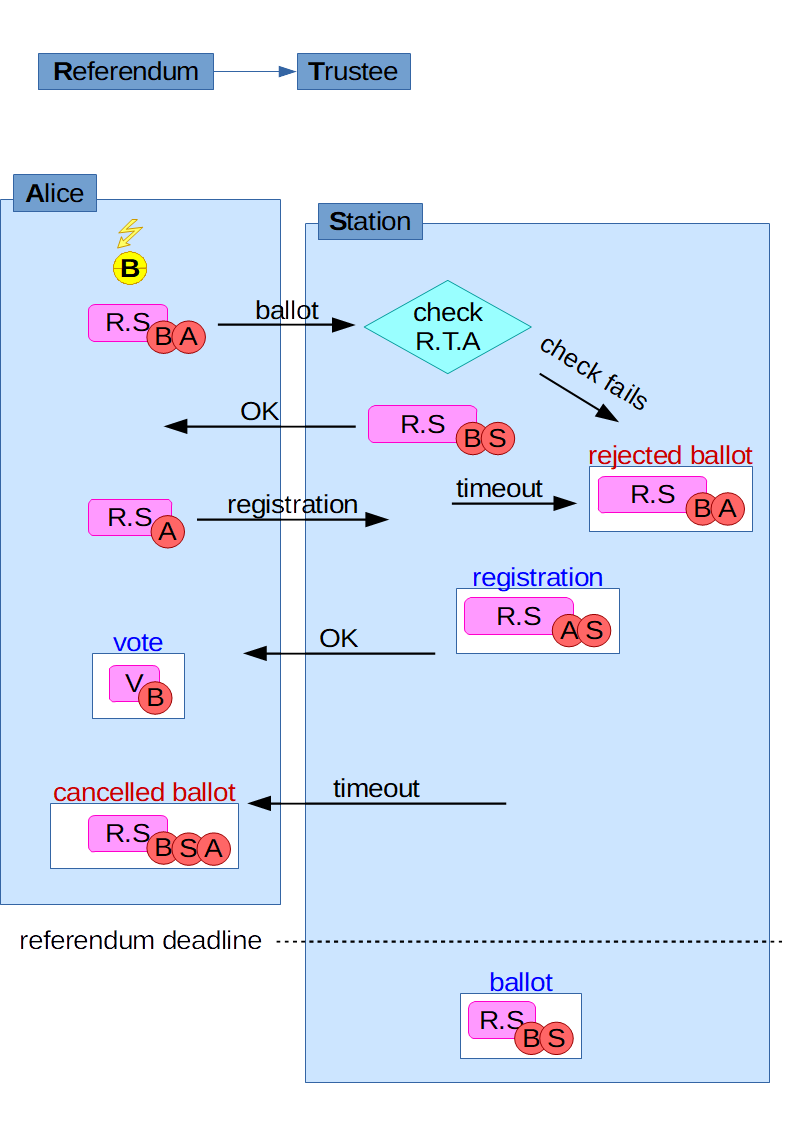
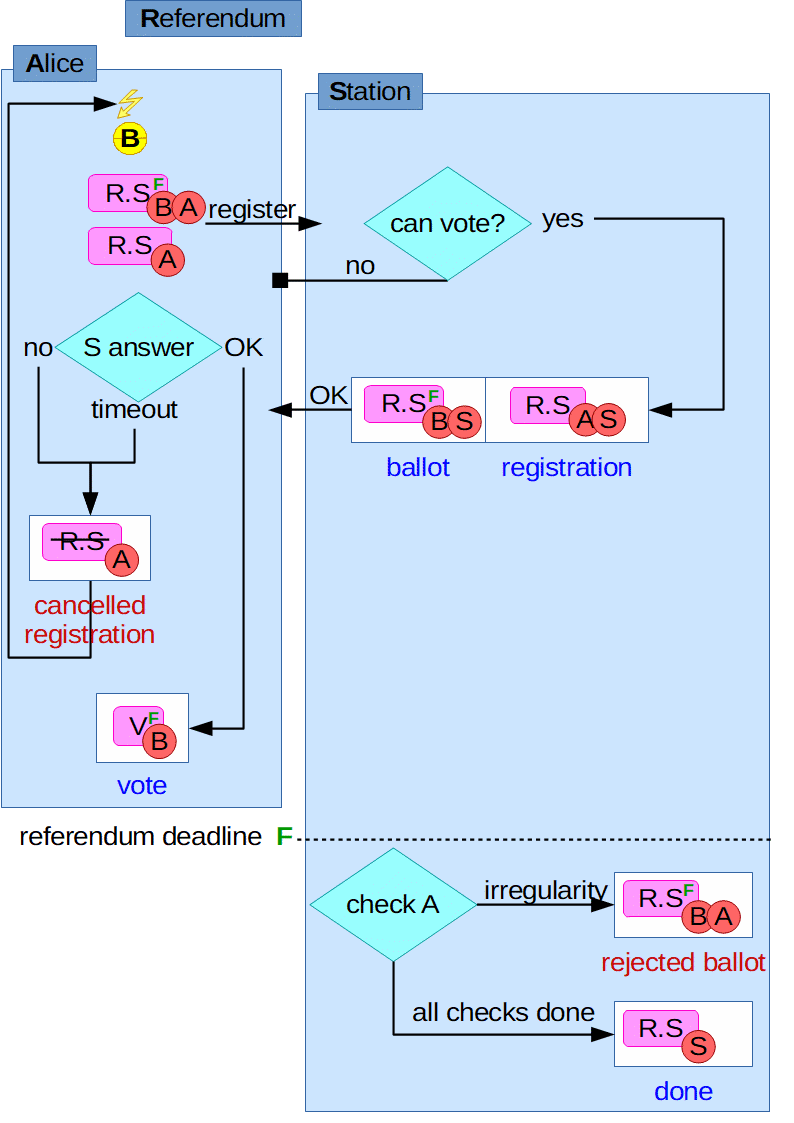
updated

diff --git a/voting.md b/voting.md
@@ -1,0 +1,102 @@
+# Features and Limitations
+
+A perfect voting system doesn't exists.
+The system we propose has a number of limitations.
+However, such limitations should not affect the democratic process.
+
+# Voting
+
+This section describe the full voting process.
+
+## 1 Citizens
+
+### 1.1 Registration
+
+The citizen `A` choose a referendum `R` and a polling station `S` she will use for that vote.
+`R` includes a reference to a trustee `T` which represents the authority for `R`.
+`A` creates a new pair of cryptographic keys `B` for her ballot.
+`A` creates a ballot structure containing the public keys of `R`, `S`, `B` and `A` and signs it with her `B` key and `A` key: `RSba`.
+The ballot also contains a publication date (*published*) set to the *deadline* of `R`.
+That means, it won't be made public before this date.
+`A` creates a registration structure, that is containing the public keys of `R`, `S` and `A` and sign it with her `A` key: `RSa`.
+The publication date (*published*) of the registration is set to the current date, which means it can be published now.
+`A` sends `RSba + RSa` to `S` and waits for an answer.
+If `S` takes too long to answer or answers anything else than `RSbs + RSas`, proceed to **1.2 Registration Cancellation**.
+Check the answer of `S`: check my `A` and `B` public keys and check the 4 signatures.
+If any check fails, proceed to **1.2 Registration Cancellation**.
+Else proceed to **1.3 Vote**.
+
+### 1.2 Registration Cancellation
+
+`A` creates a cancelled registration structure which contains the public key of `R`, `S` and `A` and sign it with `A`: `-RSa`.
+The cancelled registration publication date (*published*) is set to the current date.
+`A` publishes `-RSa` and proceed to **1.1 Registration**, likely with a different polling station.
+
+### 1.3 Vote
+
+`A` creates a vote structure containing her answer `V` to `R`, her `B` key and signs it with her `B` key: `Vb`.
+The vote publication date (*published*) is set to the *deadline* of `R`.
+That means, it won't be made public before this date.
+`A` publishes `Vb`.
+
+## 2 Stations
+
+### 2.1 Registration Desk
+
+If `S` receives no `RSba + RSa` message from `A` until the *deadline* of `R` is reached, proceed to **2.2 Registrations Check**.
+`S` receives `RSba + RSa`. It checks that `S` correspond to itself, that `R` exists and checks the 3 signatures.
+`S` also checks that `A` did not already registered with it.
+Then, `S` checks the available publications to determine if `A` is allowed to vote to `R`:
+First, `S` checks if there is a publication signed by `T` and endorsing `A`.
+Then, `S` checks from publications signed by `T` if the *latitude* and *longitude* of `A` lies in the *area* of `R`.
+If any check fails, `S` replies "no" to `A`, with possibly some explanation why it refused her and proceed to **2.1 Registration Desk**.
+Otherwise `S` removes the key and signature of `A` from the `RSba` ballot, signs it so that it is now `RSbs`.
+It also sign the `RSa` registration so that it becomes `RSas`.
+It publishes `RSas` and `RSbs` (the later will be public at the *deadline* of `R`).
+It send back `RSbs + RSas` to to `A` and proceed to **2.1 Registration Desk** to possibly handle other citizen registrations.
+
+### 2.2 Registrations Check
+
+At this point, the *deadline* of `R` is reached.
+Each station `S` check that all the citizens who registered with them in `RSas` did not register with another station.
+If a citizen `A` registered with another station, e.g., another `RSas` is found with a different `S`, then proceed to **2.3 Ballot Rejection**.
+Once `S` checked all its citizen registrations, it publishes `RSs` to mean it's done with registration checks.
+This should happen within a short delay after *deadline* as observers will start counting votes quickly.
+It is recommended that `S` clears its database to keep no record linking citizens `A` to ballots `B` for `R` in case of any possible future attack on its database.
+
+### 2.3 Ballot Rejection
+
+`S` publishes the original `RSba` it received from `A` to cancel her registration, ballot and vote before the upcoming counting.
+
+## 3 Observers & Trustees
+
+After a short delay after the *deadline* for `R` has passed, the observers, including trustees can start checking the results.
+
+### 3.1 Matching Ballots and Votes
+
+For each vote `Vb`, check that there is a single corresponding `RSbs`.
+If there is no corresponding `RSbs`, `Vb` is disregarded.
+If there are several corresponding `RSbs` (F0), `Vb` is disregarded and the oldest corresponding `RSas` is determined ;
+all the other stations get invalidated.
+
+### 3.2 Uniqueness
+
+Check that each citizen voted only once, e.g., there is no several `RSas` with the same `R` and same `A`.
+If a citizen voted several times (F1), the oldest `RSas` is determined, based on the *published* date.
+If it is multiple, e.g., several `RSas` having the same oldest *published* date, (F2).
+
+For each `S`, count the number of `RSas`, `RSbs` and `RSbas`.
+if (n(`RSas`) != n(`RSbs`) - n(`RSbas`)), (F4) `S` get invalidated.
+
+### 3.3 Invalidated Stations
+
+When a station `S` did a bad job, it gets invalidated:
+All votes related to `S` are removed from the count and trustees will likely decrease the reputation of `S`.
+
+# Weaknesses
+
+This section explores the cheating possibilities for each participant.
+
+## Malicious Citizen
+
+## Malicious Station
